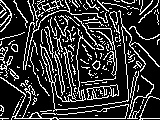
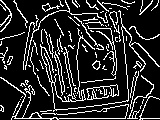
submit report

diff --git a/MP5/main.py b/MP5/main.py
@@ -311,8 +311,8 @@ def zero_crossing(img, save_path):
 if __name__ == '__main__':
     images = load_test_data("./data")
     for idx, im in enumerate(images):
-        run_pipeline(im.copy(), f"./outputs/my_implementation/{idx}.jpg", low=10, high=20, weak=80)
-        run_pipeline_cv(im.copy(), f"./outputs/canny_opencv/{idx}.jpg", low=10, high=20)
+        run_pipeline(im.copy(), f"./outputs/my_implementation/{idx}.jpg", low=30, high=60, weak=80)
+        run_pipeline_cv(im.copy(), f"./outputs/canny_opencv/{idx}.jpg", low=30, high=60)
         sobel_cv(im.copy(), f"./outputs/sobel/{idx}.jpg")
         roberts_scikit(im.copy(), f"./outputs/roberts/{idx}.jpg")
         zero_crossing(im.copy(), f"./outputs/zero_cross/{idx}.jpg")
